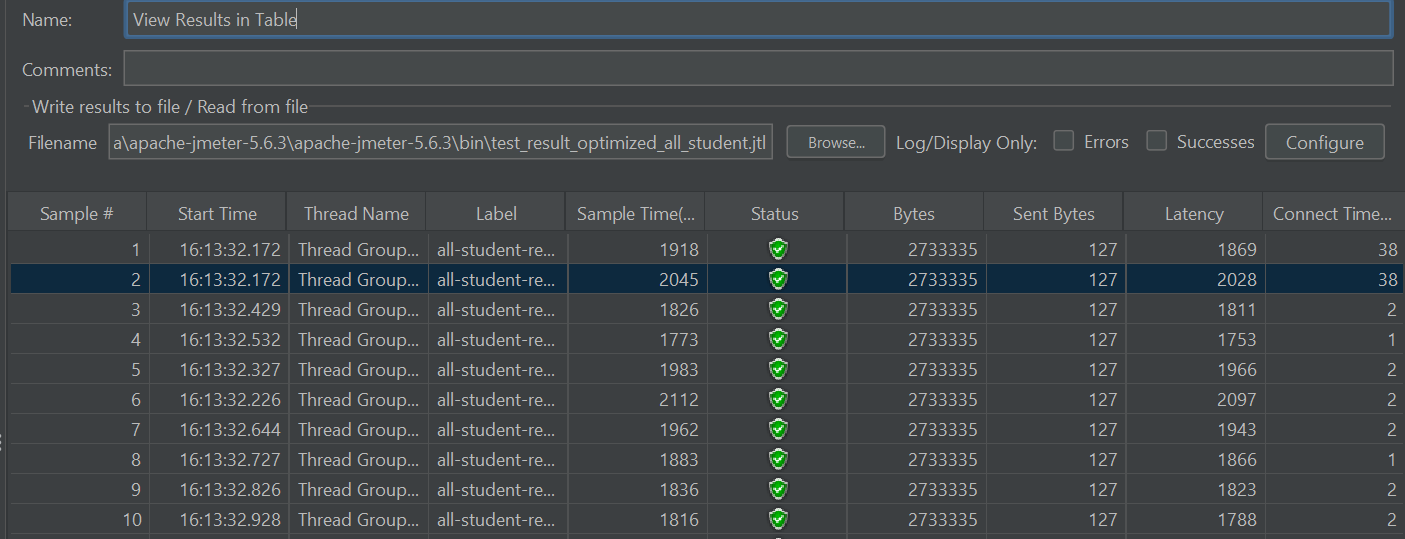
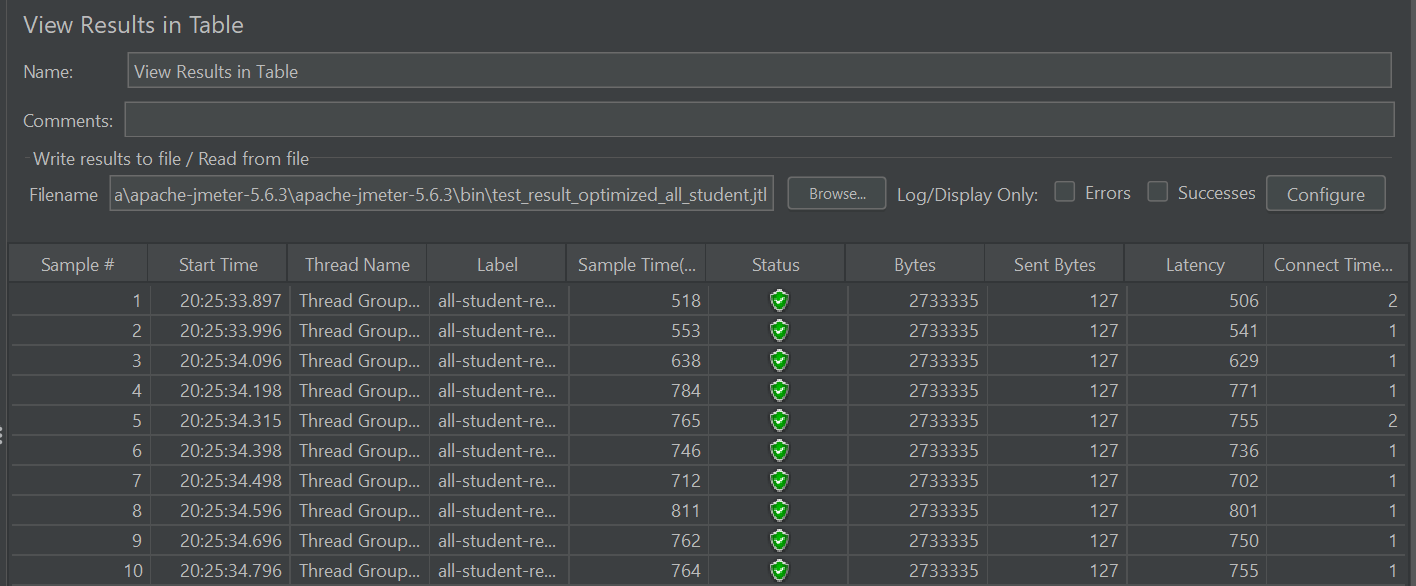
[README] - Added performance testing results and optimization comparison

diff --git a/README.md b/README.md
@@ -1,9 +1,10 @@
-# Performance Testing & Profiling Results
+## Performance Testing & Profiling Results
 
-## 🚀 Test Plan Results (Before Optimization)
+### 🚀 Test Plan Results (Before Optimization)
+Sebelum melakukan _optimize code_, saya mengukur waktu respons setiap endpoint menggunakan **Apache JMeter**. Berikut hasilnya:
 
-### 1. Test Plan 1 - `/all-student-request`
-![All Student Request](all-student-request.png)
+### 1. Test Plan 1 - `/all-student`
+![All Student](all-student-request.png)
 
 ### 2. Test Plan 2 - `/all-student-name`
 ![All Student Name](all-student-name.png)
@@ -13,9 +14,9 @@
 
 ### Performance Testing Results (Command Line)
 
-### 1. Test Plan 1 - `/all-student-request`
-![All Student Request](test_result_all_student(1).png)
-![All Student Request Notepad](test_result_all_student.png)
+### 1. Test Plan 1 - `/all-student`
+![All Student](test_result_all_student(1).png)
+![All Student Notepad](test_result_all_student.png)
 
 ### 2. Test Plan 2 - `/all-student-name`
 ![All Student Name](test_result_all_student_name.png)
@@ -27,7 +28,7 @@
 
 ---
 
-## 🔍 Optimization Strategy
+### 🔍 Optimization Strategy
 ### ✅ Profiling & Bottleneck Identification
 Hasil analisis menggunakan **IntelliJ Profiler** :
 - **Method `getAllStudentsWithCourses()`** punya CPU time paling tinggi karena melakukan banyak query ke database dalam loop (**N+1 Problem**).
@@ -41,10 +42,11 @@ Hasil analisis menggunakan **IntelliJ Profiler** :
 
 ---
 
-## 📊 Test Plan Results (After Optimization)
+### 📊 Test Plan Results (After Optimization)
+Setelah _optimization code_ dilakukan, saya menjalankan ulang _testing_ dengan **Apache JMeter** untuk melihat peningkatan performa.
 
-### 1. Test Plan 1 - `/all-student-request` (After Optimization)
-![All Student Request After](optimized-all-student.png)
+### 1. Test Plan 1 - `/all-student` (After Optimization)
+![All Student After](optimized-all-student.png)
 
 ### 2. Test Plan 2 - `/all-student-name` (After Optimization)
 ![All Student Name After](optimized-all-student-name.png)
@@ -53,9 +55,10 @@ Hasil analisis menggunakan **IntelliJ Profiler** :
 ![Highest GPA After](optimized-highest-gpa.png)
 
 ### Performance Testing Results (Command Line)
-### 1. Test Plan 1 - `/all-student-request` (After Optimization)
-![All Student Request](result_terminal_optimized_all_student.png)
-![All Student Request Notepad](result_notepad_optimized_all_student.png)
+
+### 1. Test Plan 1 - `/all-student` (After Optimization)
+![All Student](result_terminal_optimized_all_student.png)
+![All Student Notepad](result_notepad_optimized_all_student.png)
 
 ### 2. Test Plan 2 - `/all-student-name` (After Optimization)
 ![All Student Name](result_terminal_optimized_all_student_name.png)
@@ -64,6 +67,17 @@ Hasil analisis menggunakan **IntelliJ Profiler** :
 ### 3. Test Plan 3 - `/highest-gpa` (After Optimization)
 ![Highest GPA](result_terminal_optimized_highest_gpa.png)
 ![Highest GPA Notepad](result_notepad_optimized_highest_gpa.png)
+
+---
+
+### 📈 Perbandingan Sebelum & Sesudah Optimasi
+| Endpoint            | Sebelum Optimasi (ms) | Setelah Optimasi (ms) |
+|---------------------|-----------------------|-----------------------|
+| `/all-student`      | ~301,446 - 305,778    | ~518 - 811            |
+| `/all-student-name` | ~4,144 - 4,964        | ~35 - 176             |
+| `/highest-gpa`      | ~164 - 344 ms         | ~8 - 30               |
+
+✅ **Target optimization > 20% berhasil dicapai di semua endpoint ^_^**
 
 ---
 
